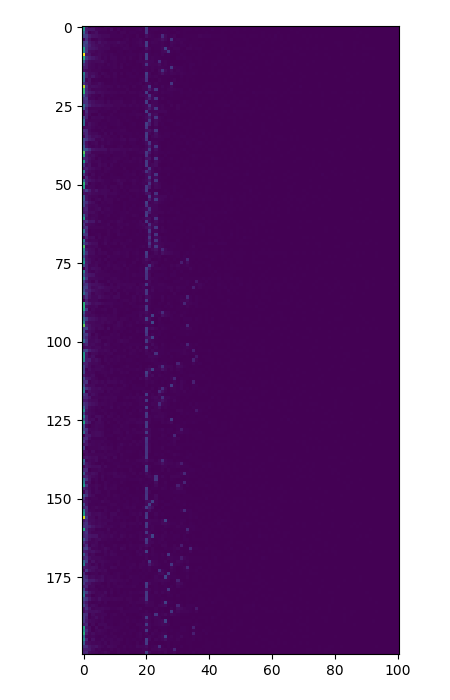
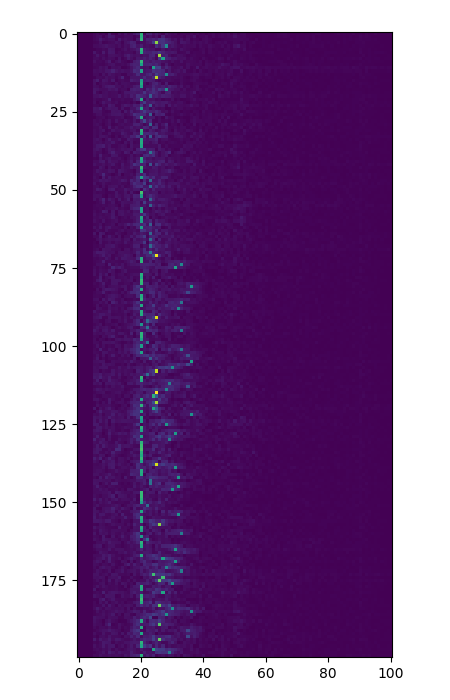
New images, proofreading

Changed region(s): [[0.0933, 0.03, 0.9022, 0.99], [0.2489, 0.63, 0.28, 0.66]]

diff --git a/doc/report.tex b/doc/report.tex
@@ -21,7 +21,7 @@
     basicstyle=\footnotesize\ttfamily
 }
 
-\title{Experimental data transmission using sound}
+\title{Experimental data transmission method using sound}
 
 \author{FÁBIÁN Tamás László}
 
@@ -39,16 +39,16 @@ The method uses 17 tones and continuous-phase frequency-shift keying.
 Frame synchronization is achieved by using the lowest tone to transmit 
 a sequence with low acyclic autocorrelation, and near 50\% duty cycle. 
 The remaining 16 tones encode 4 bits per symbol. Reed-Solomon code 
-RS\(54,20\) is applied before modulation, to yield the 54 byte payload. 
-The payload then translated to 16-tone symbols and interleaved with the 
-17th synchronization tone.
+RS(54,20) is applied before modulation, to yield a 54 byte codeword. 
+The codeword is then translated to 16-tone symbols and interleaved with
+the 17th synchronization tone.
 
-On the receiving end, the demodulator uses correlation to find a 
-transmitted frame. The 16 tone data symbols are decoded non-coherently, 
-using Fast Fourier Transformation, and choosing the FFT bucket with the 
-largest power. The symbols then transformed to half-bytes (or 
-\textit{nibbles}). The received nibbles then assembled to bytes, and 
-decoded using RS(54,20).
+On the receiving end, the demodulator uses correlation with the
+synchronization sequence to find a transmitted frame. The 16 tone data
+symbols are decoded non-coherently, using Fast Fourier Transformation,
+and choosing the FFT bucket with the largest power. The symbols then
+transformed to half-bytes (or \textit{nibbles}). The received nibbles
+then assembled to bytes, and decoded using RS(54,20).
 
 A software was written in the Python language for experimental and 
 demonstration purposes. Scripts are provided to send and receive short 
@@ -562,7 +562,7 @@ $ ./scope.py -y -w noisy.s16
     \centering
     \begin{subfigure}[b]{0.45\textwidth}
         \includegraphics[width=1\textwidth]{waterfall_sync_clean.png}
-        \caption{Clean signall, synchronized}
+        \caption{Clean signal, synchronized}
     \end{subfigure}
     \begin{subfigure}[b]{0.45\textwidth}
         \includegraphics[width=1\textwidth]{waterfall_sync_noisy.png}
